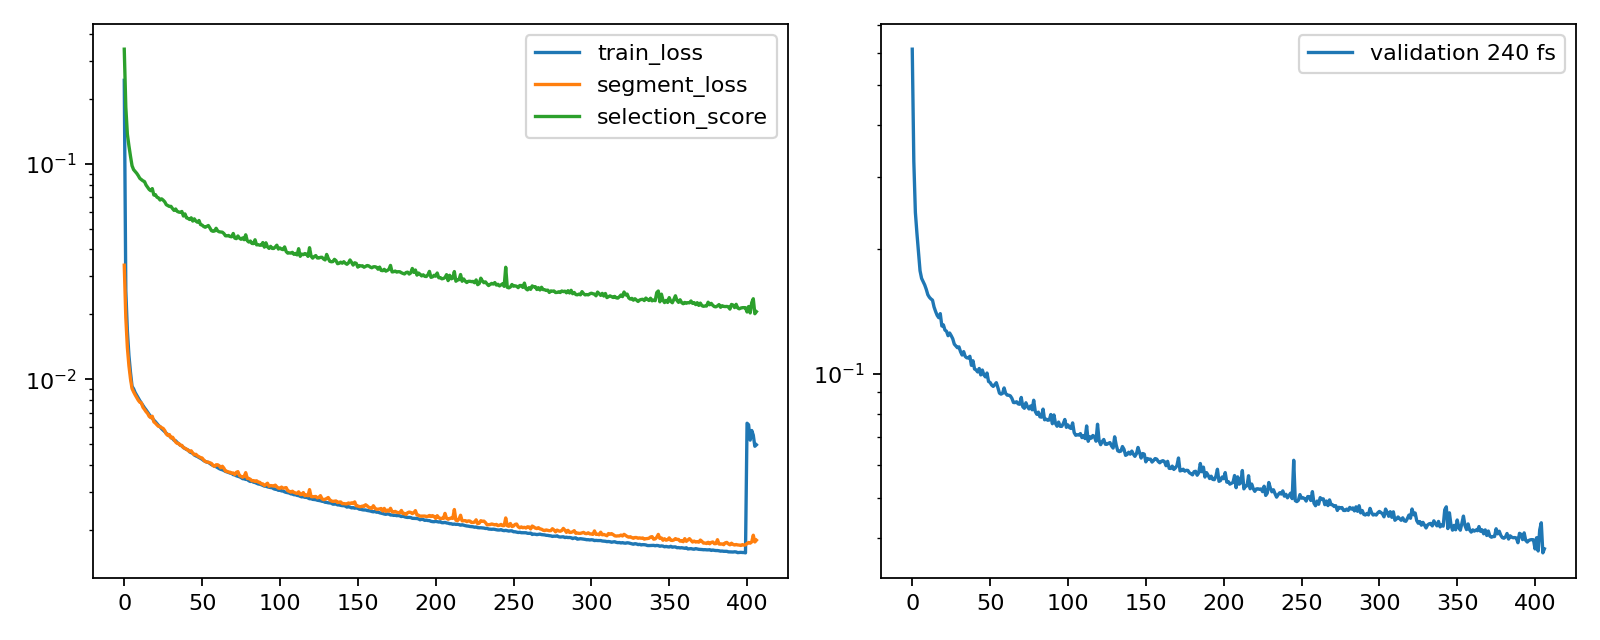
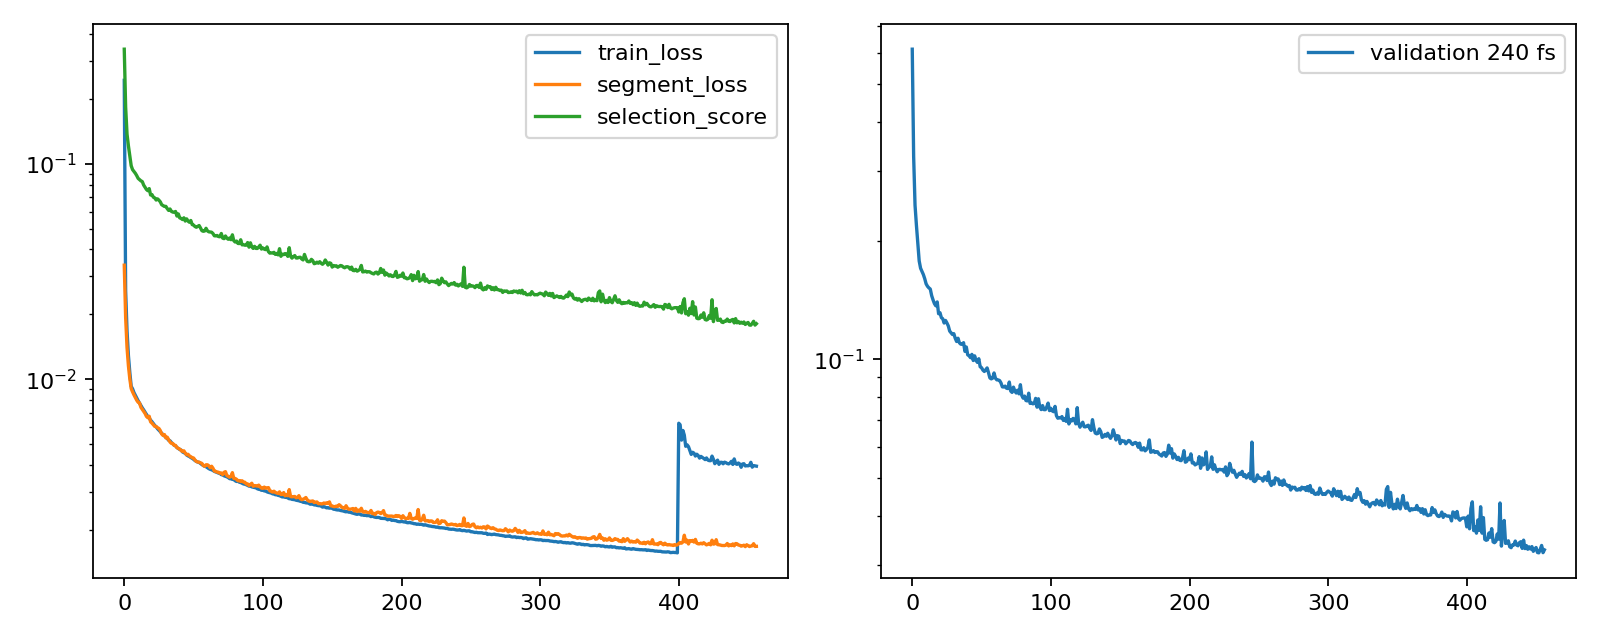
Report observed SMDP Quartz30 progress and physics

diff --git a/reports/smdp_trajcast_quartz30_20261028/RESULTS.md b/reports/smdp_trajcast_quartz30_20261028/RESULTS.md
@@ -8,8 +8,8 @@ Training started: True.
 Training completed: False.
 Independent test evaluation completed: False.
 
-Execution snapshot: 2026-11-01T14:17:58.297195+00:00; service {'MainPID': '90130', 'ActiveState': 'active', 'SubState': 'running'}.
-Free disk at snapshot: 15.45 GiB; dense NVT requires 40 GiB before launch.
+Execution snapshot: 2026-11-02T09:38:59.735172+00:00; service {'MainPID': '90130', 'ActiveState': 'deactivating', 'SubState': 'stop-sigterm'}.
+Free disk at snapshot: 88.51 GiB; trajectory storage is checked against requested duration before launch.
 See progress_snapshot.json for the last actual training record. Early training loss is not a physical result.
 
 ## Training and validation progress
@@ -20,7 +20,7 @@ Each row uses the best checkpoint within that stage by the unchanged selection s
 | Stage | Completed epochs | Best epoch (zero-based) | q30 RMSE / Å | v30 RMSE / Å/fs | q240 RMSE / Å | Selection score |
 |---|---:|---:|---:|---:|---:|---:|
 | segment | 400 | 389 | 0.001867054 | 0.0001525811 | 0.0188368 | 0.02115413 |
-| rollout4 | 7 | 5 | 0.001909675 | 0.0001540541 | 0.01801787 | 0.02013674 |
+| rollout4 | 57 | 52 | 0.001864529 | 0.0001505272 | 0.01662013 | 0.01781902 |
 
 Full stage-best/latest validation traces: [validation_progress.json](validation_progress.json).
 Server checkpoints: `<server artifacts>/<stage>/best.pt`, `<stage>/last.pt`, and `best.pt`.
